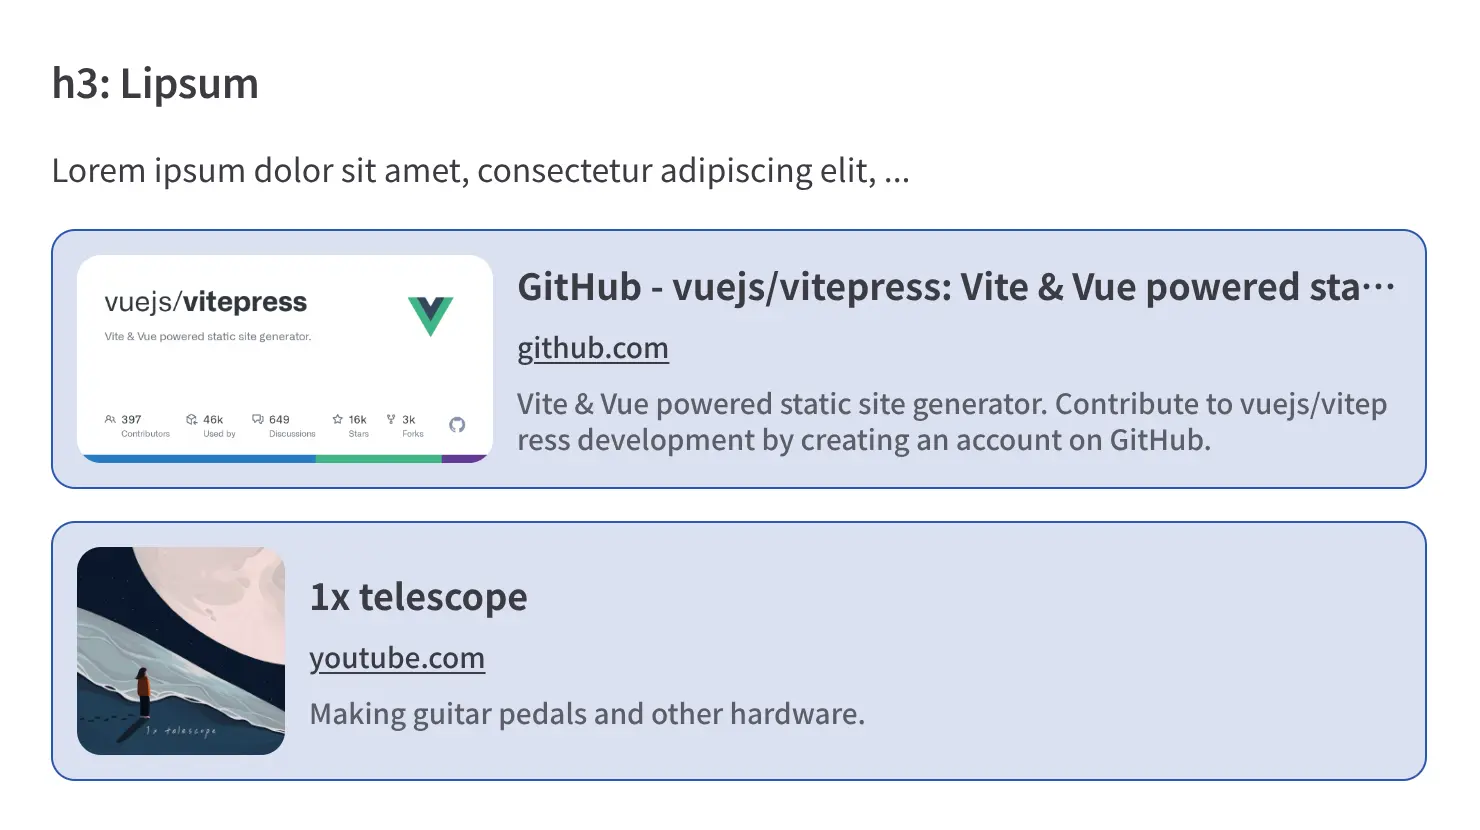
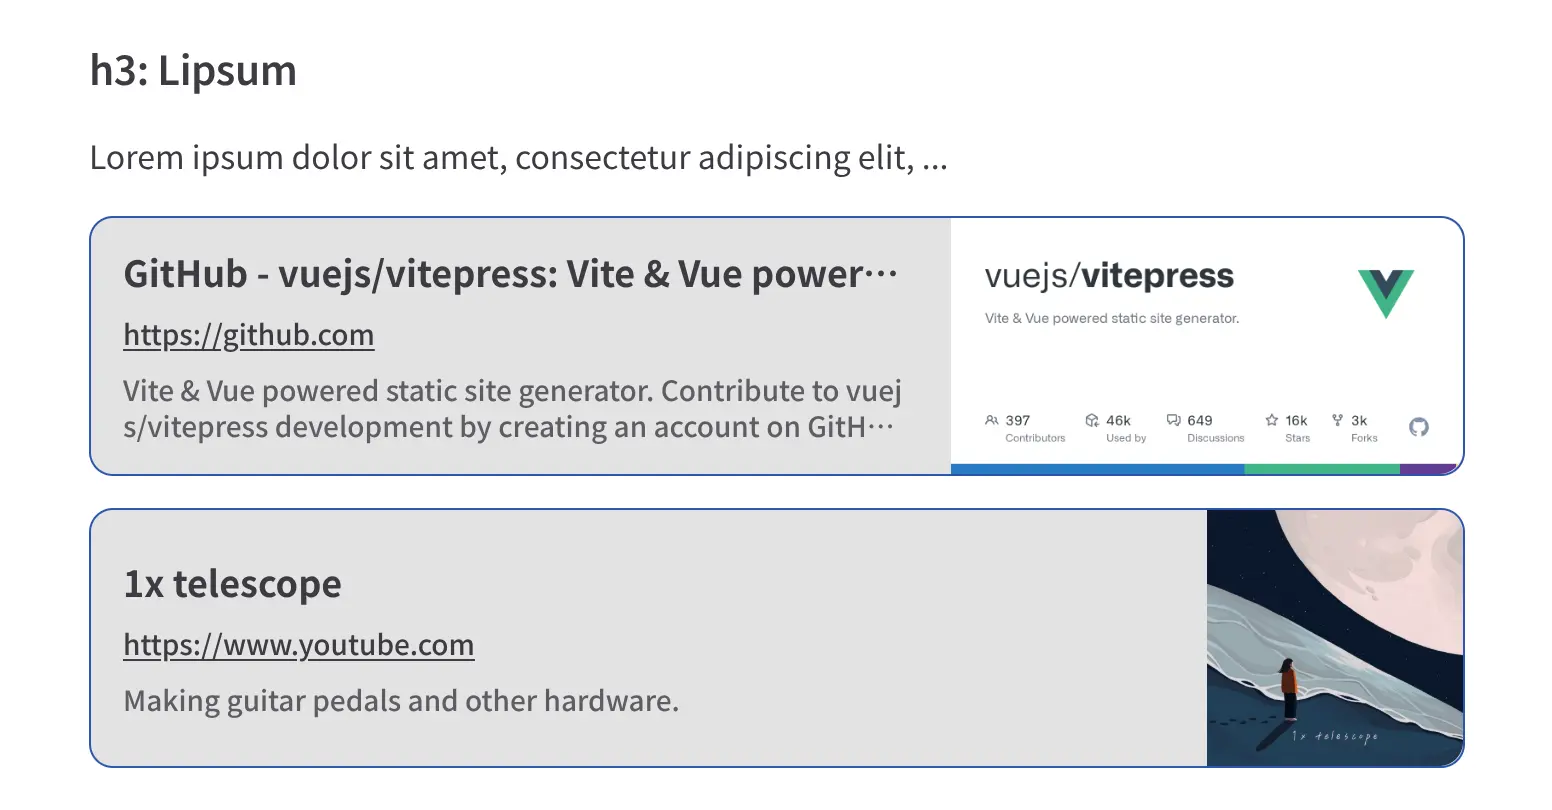
develop: 画像を右寄せに変更 (#30)
* update: 様子見版をrelease

* update: 画像を右側に移動

* update: スクリーンショットを更新

diff --git a/src/assemble/style.ts b/src/assemble/style.ts
@@ -39,7 +39,6 @@ export const STYLE = (borderColor: string, bgColor: string) => ({
     alignItems: "center",
     flexWrap: "wrap",
     gap: "10px",
-    padding: "12px",
     borderRadius: "12px",
     border: `1px solid ${borderColor}`,
     backgroundColor: bgColor,
@@ -48,9 +47,9 @@ export const STYLE = (borderColor: string, bgColor: string) => ({
     height: "130px",
   }),
   img: inlineStyle({
-    borderRadius: "12px",
+    borderRadius: "0px 12px 12px 0px",
     maxWidth: "40%",
-    height: "100%",
+    height: "128px", // container.height - 2px
     flexShrink: 0,
     objectFit: "contain",
     overflow: "hidden",
@@ -64,7 +63,7 @@ export const STYLE = (borderColor: string, bgColor: string) => ({
     opacity: 1,
     fontSize: "18px",
     lineHeight: "24px",
-    margin: "0 2px 10px 2px",
+    margin: "0 12px 10px 16px",
     fontWeight: "bold",
   }),
   domain: inlineStyle({
@@ -72,7 +71,7 @@ export const STYLE = (borderColor: string, bgColor: string) => ({
     opacity: 1,
     fontSize: "14px",
     lineHeight: "18px",
-    margin: "10px 2px 10px 2px",
+    margin: "10px 12px 10px 16px",
     textDecoration: "underline",
   }),
   description: inlineStyle({
@@ -80,7 +79,7 @@ export const STYLE = (borderColor: string, bgColor: string) => ({
     opacity: 0.8,
     fontSize: "14px",
     lineHeight: "18px",
-    margin: "10px 2px 0px 2px",
+    margin: "10px 12px 0px 16px",
   }),
 });
 

diff --git a/src/assemble/html.ts b/src/assemble/html.ts
@@ -28,14 +28,11 @@ export const generateCardDomFragment: CardDomRender = (data, options) => {
     options.bgColor || "#7d7d7d00"
   );
   const url = options.href || "";
-  const domain = new URL(url).origin
-    .replace(/^https?:\/\//, "")
-    .replace(/^www\./, "");
+  const domain = new URL(url).origin;
 
   return `<span style="display:block;">
   <a ${aa.rel} ${aa.target} ${aa.href} ${aa.title} ${style.a}>
     <span ${inject(style.container, classes.container)}>
-      <img src="${data?.logo}" ${inject(style.img, classes.img)}/>
       <span ${inject(style.texts, classes.texts)}>
         <span ${inject(style.title, classes.title)}>
           ${escapeHTML(data.title || "")}
@@ -47,6 +44,7 @@ export const generateCardDomFragment: CardDomRender = (data, options) => {
           ${escapeHTML(data.description || "")}
         </span>
       </span>
+      <img src="${data?.logo}" ${inject(style.img, classes.img)}/>
     </span>
   </a>
 </span>`;
